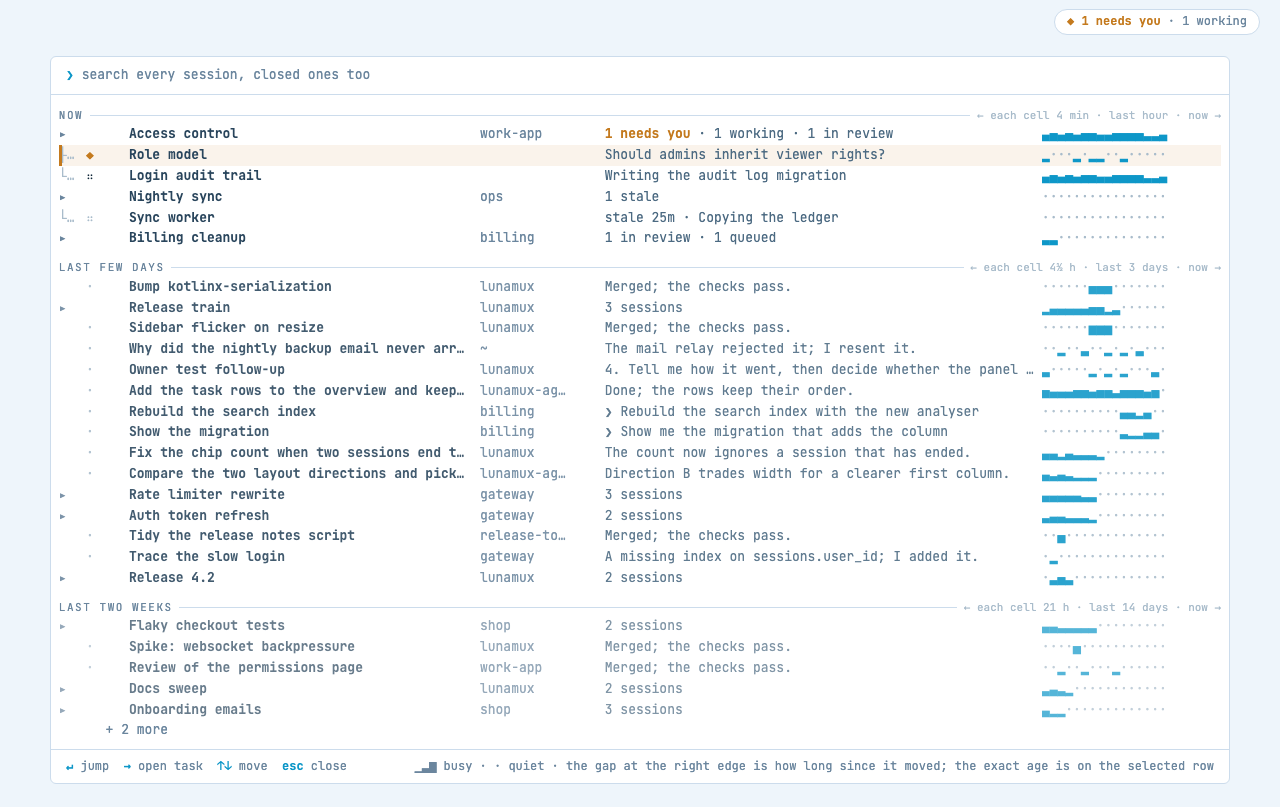
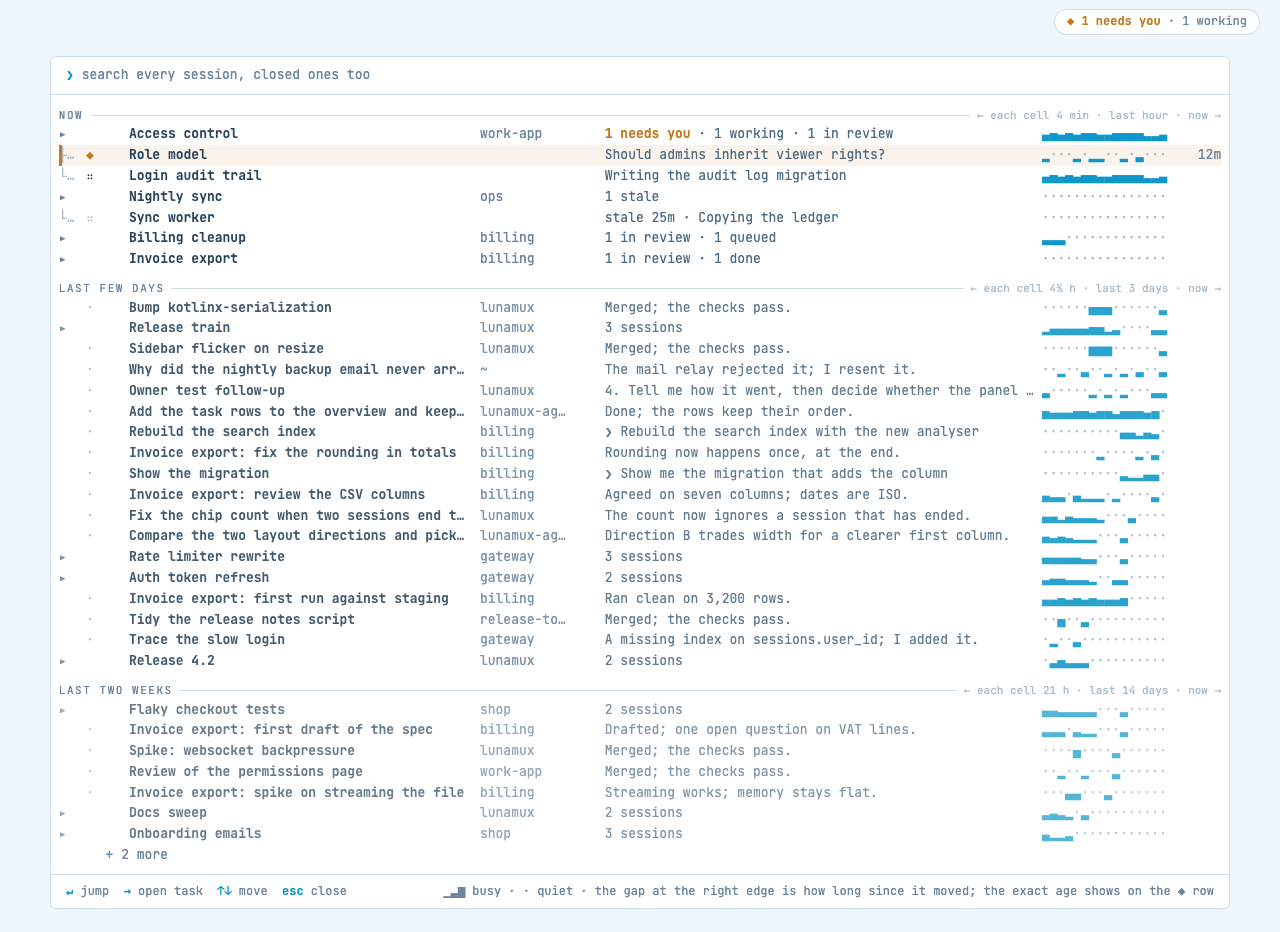
Redraw the seeded directions: honest strips, an invented thread family, readable switchboard names
B's strip edges now match each row's age and the ◆ row shows its exact age. The seeded set gains an
Invoice export family (in a task and loose, across bands) so A's dimmed prefix and thread marks can be
judged. A's place cue moves inline and the who cue shows on every row; C names a thread in two lines
and the footer names the tab key. index.md now says what the pictures show.

diff --git a/docs/recognition-directions-seeded-2026-11-03/index.md b/docs/recognition-directions-seeded-2026-11-03/index.md
@@ -15,7 +15,13 @@ from his own history exists beside this one in the programme folder, outside git
 the PR.
 
 Collapsed = task headers folded (NOW shows only the members that need him or are working).
-Expanded = one task open (Release train in the seeded set).
+Expanded = every task in NOW opened, plus one earlier task (Release train); in C the drawer shows one
+thread (Invoice export).
+
+The seeded set includes an invented **family**: *Invoice export*, seven sessions from one worktree
+(`billing/invoice-export`) with titles that open with the same words, some inside tasks (NOW) and
+some loose (days and weeks back). That is the case the directions are meant for, and the one A's
+dimmed prefix and thread marks can be judged on.
 
 ## What I looked at first
 
@@ -29,7 +35,7 @@ in kind.
 |---|---|---|---|
 | Idea | each thread gets a stable **mark** (shape × hue) that follows it everywhere | age text becomes a **rhythm strip**: when it moved, and how busy | the list becomes a **board of fixed slots** he learns by position, with a home key per slot |
 | Reads as | "the purple half-circle one" | "the one that was busy an hour ago" | "bottom-left, the p one" |
-| Changes the overview's shape | no: same rows, same keys | no: same rows, one column changes | yes: grid instead of list; list stays one key away |
+| Changes the overview's shape | no: same rows, same keys | no: same rows, one column changes | yes: grid instead of list; `tab` returns to the list |
 
 ---
 
@@ -44,10 +50,12 @@ in kind.
   six shapes in one of six hues, 36 pairs, picked by a hash of the thread key and nudged past marks
   already taken, then kept in a small table so it never changes. The task header, every member row,
   the tab and the pane header all wear the same mark, so the row in the overview and the pane in the
-  layout are visibly the same thing.
-- **Also in this direction.** A *place* cue for live sessions (`1▘` = tab 1, top-left pane), a *who*
-  cue (`❯` he typed it, `⚙` another session started it), the words that every title in a family
-  shares are **dimmed** so the differing words lead, rows keep a stable order within a band, and the
+  layout are visibly the same thing. Every Invoice export row, in a task or loose, wears the same
+  half-circle mark, so the family reads as one thread without reading a title.
+- **Also in this direction.** A *place* cue for live sessions (`1▘` = tab 1, top-left pane), written
+  inline before the status text and only on rows that have one; a *who* cue on every row (`❯` he
+  typed it, `⚙` another session started it); the words that every title in a family
+  shares are **dimmed** (`Invoice export:` in grey, `parse the ledger csv` bold) so the differing words lead, rows keep a stable order within a band, and the
   ◆ row is tinted amber so it stays the loudest thing.
 - **Trade-off.** Marks are an arbitrary vocabulary he has to *learn once*: the first week they mean
   nothing, and past 36 threads marks start repeating (the thread's title and place still tell them
@@ -63,16 +71,18 @@ in kind.
 ![B light collapsed](b-pulse-light-collapsed.png)
 ![B light expanded](b-pulse-light-expanded.png)
 
-- **What it does.** The age column becomes a 16-cell strip whose cells are minutes (NOW), hours (LAST
-  FEW DAYS) or days (LAST TWO WEEKS) ending at "now": a block's height is how much the session
-  printed, a dot is quiet, and the gap at the right edge *is* how long since it moved. A manager that
+- **What it does.** The age column becomes a 16-cell strip ending at "now". A cell is 4 min in NOW, 4½ h in
+  LAST FEW DAYS and 21 h in LAST TWO WEEKS (each band's header says so): a block's height is how much
+  the session printed, a dot is quiet, and the gap at the right edge *is* how long since it moved
+  (Role model, 12m, ends three cells before now; Bump kotlinx-serialization, 25m, ends in the last
+  cell of its hours band). A manager that
   wakes, acts and sleeps looks different from an implementer that ran to the end, and different from a
-  one-shot question. Rows also fade by band (NOW full, older bands quieter). The exact age shows on the selected row.
+  one-shot question. Rows also fade by band (NOW full, older bands quieter). The exact age shows on the ◆ row (the selected one), written after the strip.
 - **Trade-off.** It answers *when and how* a session moved, not *which* one it is: two rows with the
   same rhythm are as alike as before. On finished sessions in older bands the strip collapses to one
   block near the edge, so it earns its keep on live rows and little elsewhere.
 - **Data source.** New, and generic: the server counts each pane's output per minute and keeps about
-  two weeks of buckets. Nothing specific to one workflow; any terminal user has the same data. There is
+  two weeks of buckets. Nothing orchestrator-specific; any terminal user has the same data. There is
   today only a single `activityMillis`.
 
 ## C. Switchboard (radical): a board with an address for every thread
@@ -83,15 +93,18 @@ in kind.
 ![C light expanded](c-switchboard-light-expanded.png)
 
 - **What it does.** The overview opens on a 6-column grid. Each thread owns a **slot** that never
-  moves (home keys `a s d f g h …` then `1`–`0`): its mark, a short name, one lamp per session (◆ needs
+  moves (home keys `a s d f g h …` then `1`–`0`): its mark, a name cut to two lines at a word boundary, one lamp per session (◆ needs
   you, ⠶ working, ○ queued, ✓ done, · closed) and a freshness bar that drains as it goes quiet. He
   stops reading a list and starts remembering a place; pressing the slot's key jumps there, and `→`
-  opens the task as a drawer under the grid (Release train in the expanded pictures). Freed slots stay
+  opens the task as a drawer under the grid (the Invoice export thread in the expanded pictures, with its seven sessions and the shared
+  prefix dimmed). Freed slots stay
   empty until a new thread takes them, so nothing shifts under his eyes.
 - **Trade-off.** It gives up the one-line status text: only the selected slot shows what a session
   last said. Letter keys now mean "jump", so search moves to `/`. The board holds 36 slots; anything
-  quieter than that waits without one. It is a different screen to learn, and it only pays if he
-  looks at the same few threads every day.
+  quieter than that waits without one. A thread is one slot, so a family like Invoice export is one cell, not seven; its
+  differing sessions are in the drawer. Names are cut at 40 characters, so two threads that open with
+  the same words can read alike on the board (the mark and the key still tell them apart). It is a
+  different screen to learn, and it only pays if he looks at the same few threads every day.
 - **Data source.** The same thread key as A, plus a persisted per-user slot table (client side).
   No server activity data.
 
@@ -105,8 +118,8 @@ in kind.
   hues apart a family is told apart by shape, the place cue and the differing title words.
 - **◆ stays the loudest.** The hue sets leave out the warn yellow and the accent cyan; the ◆ row (A,
   B) or cell (C) is tinted amber with a bar at its edge, and the marks use mid-saturation hues next to the ◆'s full amber.
-- **Seeded collisions.** In the seeded set, 23 threads need 36 possible marks: 7 threads land on a mark
-  the raw hash had already given away, and probing moves them all, so none repeat. The mark table must be persisted for
+- **Seeded collisions.** In the seeded set, 24 threads need 36 possible marks: 7 threads land on a mark
+  another one already holds on the raw hash, and all are resolved by probing, so none repeat. The mark table must be persisted for
   this to hold; a fresh hash alone is not enough.
 - **Glyphs.** The shapes come from Geometric Shapes and Block Elements, rendered here with the overview's bundled font. The two quadrant shapes (▚ and the ◧ half-square) read
   finer than the others at 18 px; a real build should check them in the terminal's own font.
